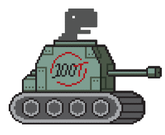
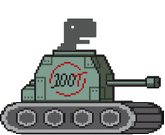
Bugs fixed, player image changed

diff --git a/Personal-Dinosaur-Game/script/functions.js b/Personal-Dinosaur-Game/script/functions.js
@@ -2,29 +2,41 @@ var player = document.getElementById("player");console.log("ok");
 var container = document.getElementById("container");
 var obstacles = [<div class="obstacles V0  Aproximate"></div>,<div class="obstacles V1 Aproximate"></div>,<div class="obstacles V2 Aproximate"></div>,<div class="obstacles V3 Aproximate"></div>]
 var jumpState = "off";
-var gameSpeed = 2000;
-var playerBonus = 0;
+var animSpeed = 2000;
+var generationSpeed = 1000;
 var points = 0;
+var startState = 'off';
 
+var interval1;
+var interval2;
+var interval3;
+var interval4;
+var interval5;
 
-function jump() {
+function jump(param) {
     if(jumpState == "off"){
         
         player.classList = "player jump";
         jumpState = "on"; 
-        setTimeout( () => {jumpState="off"; player.classList ="player"}, 500)
+        setTimeout( () => {resetPlayer()}, 500)
     }
-    
+    else if (param == 'second'){}
     else{
-        console.log(jumpState);
+        setTimeout( () => {jump('second')}, 50);
     }
 }
+
+function resetPlayer(){
+    if(jumpState === "ended"){player.classList ="player"}
+    else {jumpState="off"; player.classList ="player"}
+}
+
 //function to check the key pressed and execute the action
 document.onkeydown = checkKey;
 function checkKey(e) {
     e = e || window.event;
    
-    if (e.keyCode == '38'){jump()}
+    if (e.keyCode == '38'){jump(); start(); }
     
 }
 //function to generate the obstacles.
@@ -44,10 +56,10 @@ function generate(){
 function animate(){
     var obstacle = document.getElementById("obstacle");
     obstacle.animate(
-        [{left: '100%'},{left: '-50%'}], {duration: gameSpeed, fill: "forwards"} );   
+        [{left: '100%'},{left: '-50%'}], {duration: animSpeed, fill: "forwards"} );   
     obstacle.id="animated";  
     //delay to delete the "obstacle" after reached the end of the animation.
-    setTimeout(()=>{obstacle.remove()}, gameSpeed + 100)
+    setTimeout(()=>{obstacle.remove()}, animSpeed + 100)
 
 }
  
@@ -63,23 +75,62 @@ function checkDead(){
     var playerTop = parseFloat(window.getComputedStyle(player).getPropertyValue("top"));
     var obstacleLeft = parseFloat(window.getComputedStyle(obstacle).getPropertyValue("left"));
     var obstacleTop = parseFloat(window.getComputedStyle(obstacle).getPropertyValue("top"));
-    if ( obstacleLeft < playerLeft + playerWidth && obstacleLeft + obstacleWidth > playerLeft && playerTop + playerHeight > obstacleTop  )
-    {alert("perdeu"); }
+    if (obstacleLeft < playerLeft + playerWidth && obstacleLeft + obstacleWidth > playerLeft && playerTop + playerHeight > obstacleTop)
+    {
+        container.classList.add("loseScreen");
+        //removeAnimation();
+        endGame(); 
+ }
+    else {checkImportance()}
+}
+//function that will check if the "obstacle has importance";
+function checkImportance(){
+    var obstacle = document.getElementById("animated");
+    var obstacleLeft = parseFloat(window.getComputedStyle(obstacle).getPropertyValue("left"));
+    var obstacleWidth = parseFloat(window.getComputedStyle(obstacle).getPropertyValue("width"));
+    if (obstacleLeft + obstacleWidth < playerLeft){
+        obstacle.id = "unimportant";
+
+    }
+}
+//function that will end the game when the player loses.
+function endGame(){
+    clearInterval(interval1);
+    clearInterval(interval2);
+    clearInterval(interval3);
+    clearInterval(interval4);
+    clearInterval(interval5);
+    jumpState = "ended";
+    startState = "ended"
+    console.log("endGame");
     
 }
-//functions that will define if the block has passed or not by the play, if it has already passed,
-//the function "checkDead()" will stop verifying this obstacle and jump to the next.
+//function that removes the animation of the obstacles and keep them stopped(to the player see what hit him).
+function removeAnimation(){
+   $("#player").stop(true, true).fadeIn();
+   $("#animated").stop(true, true);
+   console.log("remove");
+}
 
-/*function checkImportance(){
-    var obstacle = document.getElementById("animated");
-    var obstacleRight = parseInt(window.getComputedStyle(obstacle).getPropertyValue('right'));
-    if (obstacleRight + playerWidth > playerRight ){
-        obstacle.id = "unimportant";
-    }
-}*/
-setInterval( () => {generate()}, gameSpeed)
-setInterval( () => {checkDead()}, 10)
-setInterval( () => {points++; document.getElementById("points").innerHTML=points}, 100)
+function reset(){
+    points = 0;
+    generationSpeed = 2000;
+    animSpeed = 2000;
+    jumpState = "off";
+    startState = "off";
+    container.classList = "container";
+   start();
+};
+
+function start() {
+    if(startState == "off" ){
+    console.log("started");
+    startState = "on";
+    interval1 = setInterval( () => {generate()}, generationSpeed);
+    interval2 = setInterval( () => {checkDead()}, 10);
+    interval3 = setInterval( () => {points++; document.getElementById("points").innerHTML=points}, 100);
+    interval4 = setInterval( () => {animSpeed -= 1;}, 100);
+    interval5 = setInterval( () => {generationSpeed -= 1;}, 100);
+}}
 
 
-console.log(obstacles);

diff --git a/Personal-Dinosaur-Game/index.html b/Personal-Dinosaur-Game/index.html
@@ -2,6 +2,7 @@
 <html lang="en">
 <head>
     <link rel="stylesheet" href="style/main.css">
+    <script src="https://ajax.googleapis.com/ajax/libs/jquery/3.5.1/jquery.min.js"></script>
     <meta charset="UTF-8">
     <meta http-equiv="X-UA-Compatible" content="IE=edge">
     <meta name="viewport" content="width=device-width, initial-scale=1.0">
@@ -11,12 +12,13 @@
 <body>
  <div class="hider"></div>
  <div class="hider2"></div>
- <div class="container" id="container">
+ <div class="container" id="container" onclick="reset()">
      <div class="player" id="player"></div>
-     <strong style="position:absolute; right: 2%; " id="points">HS 0</strong>
+     <strong style="position:absolute; right: 2%; " id="points"> 0</strong>
 </div>   
 
 </body>
+<script src="https://ajax.googleapis.com/ajax/libs/jquery/3.5.1/jquery.min.js"></script>
 <script src="https://unpkg.com/react@16/umd/react.production.min.js"></script>
 <script src="https://unpkg.com/react-dom@16/umd/react-dom.production.min.js"></script>
 <script src="https://unpkg.com/babel-standalone@6.15.0/babel.min.js"></script>

diff --git a/Personal-Dinosaur-Game/style/Classes.css b/Personal-Dinosaur-Game/style/Classes.css
@@ -2,8 +2,8 @@
     position: absolute;
     left: 15%;
     top: 10%;
-    background-image: url(https://encrypted-tbn0.gstatic.com/images?q=tbn:ANd9GcSE3IfCMpuzNNrZ8Q009DlQg_R3i5uCym7_kxnu-b7BCSVsFHV14YQ6uB9yC-z0PFfAPQw&usqp=CAU);
-    width:60%;
+    /*background-image: url(https://encrypted-tbn0.gstatic.com/images?q=tbn:ANd9GcSE3IfCMpuzNNrZ8Q009DlQg_R3i5uCym7_kxnu-b7BCSVsFHV14YQ6uB9yC-z0PFfAPQw&usqp=CAU);
+    */width:60%;
     height: 40%;
     border: 2px;
     border-style: solid;   
@@ -41,9 +41,17 @@
    background-size: 100%;
    background-repeat: no-repeat;
    background-position-y:112% ;
-    background-color:white;
+    background-color:rgb(233, 19, 19);
     width: 10%;
     height: 26%;
+    animation-name: movement;
+    animation-duration: 1s;
+    animation-iteration-count: infinite;    
+}
 
+.loseScreen {
+    background-image: url(../Sources/reload\ icon\ \(png\).png);
+    background-repeat: no-repeat;
+    background-position: 50%;
     
 }

diff --git a/Personal-Dinosaur-Game/style/Animations.css b/Personal-Dinosaur-Game/style/Animations.css
@@ -27,3 +27,11 @@
     100%{left: -20%;}
     
 }
+
+
+/*animation for the player's movement*/
+@keyframes movement {
+    
+    100%{background-image: url(../Sources/Dino\ in\ a\ tank\ 2.png);}
+    
+}
